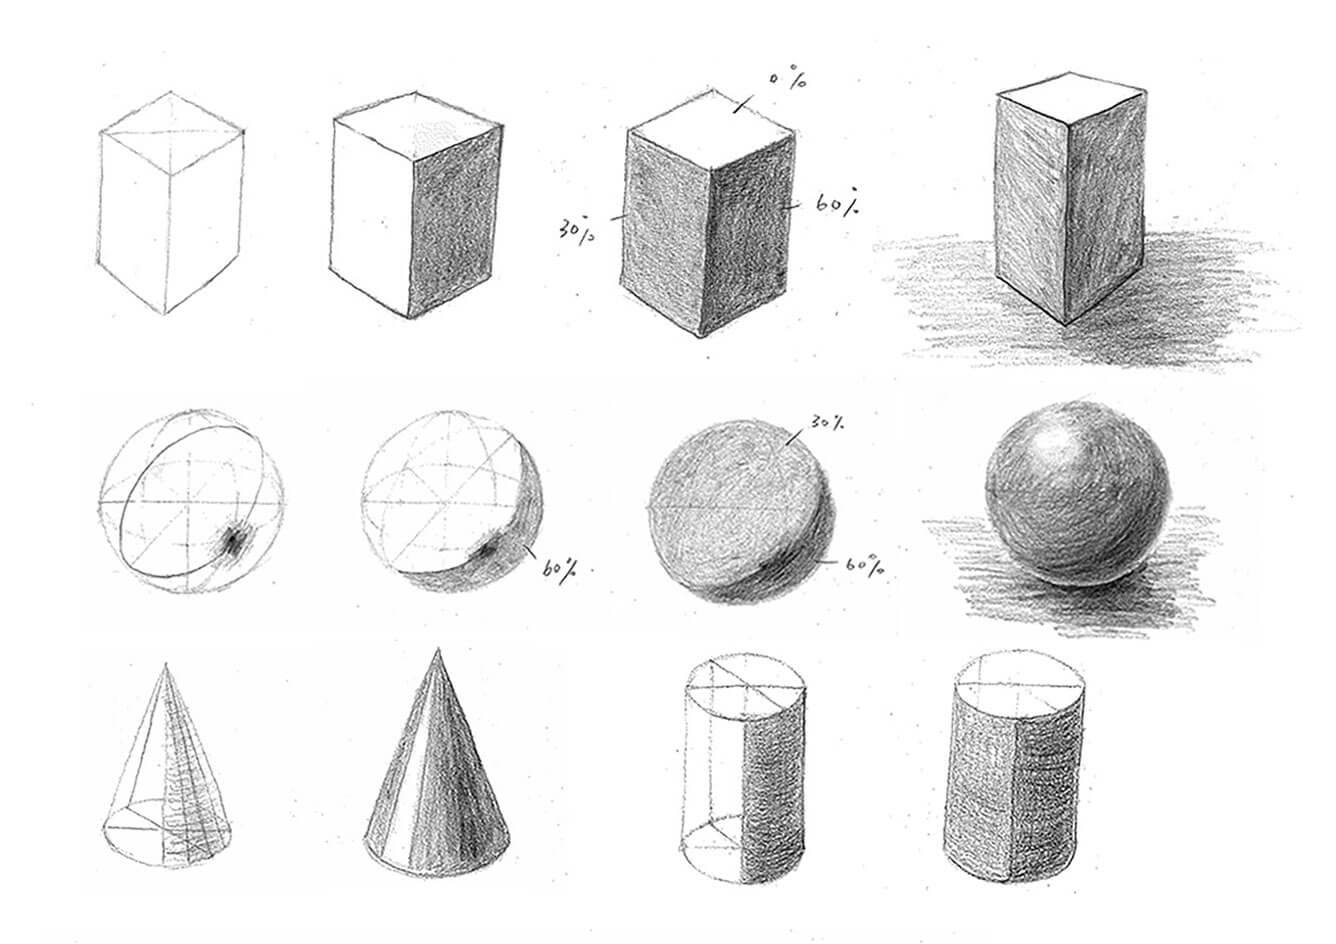
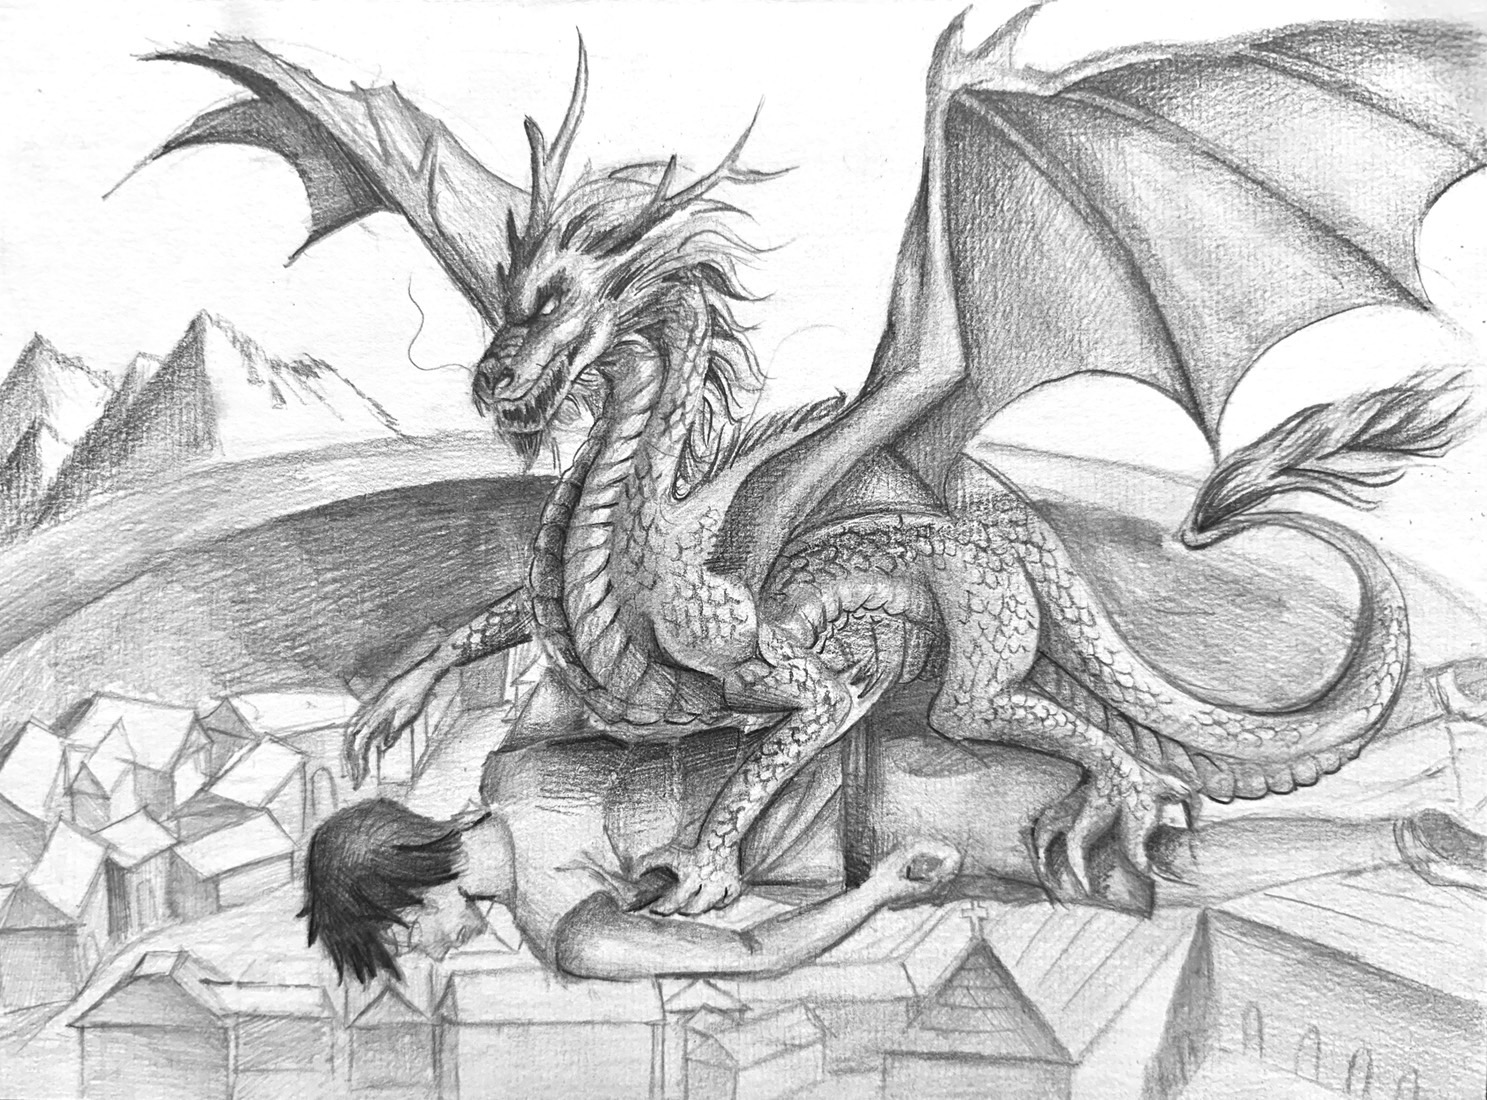
update

diff --git a/index.html b/index.html
@@ -25,6 +25,10 @@
           class="gallery-image active"
         />
         <img src="images/painting_2.jpg" alt="畫作 2" class="gallery-image" />
+        <img src="images/painting_3.jpg" alt="畫作 3" class="gallery-image" />
+        <img src="images/painting_4.jpg" alt="畫作 4" class="gallery-image" />
+        <img src="images/painting_5.jpg" alt="畫作 5" class="gallery-image" />
+        <img src="images/painting_6.jpg" alt="畫作 6" class="gallery-image" />
 
         <div class="gallery-controls">
           <button id="prevBtn">Prev</button>